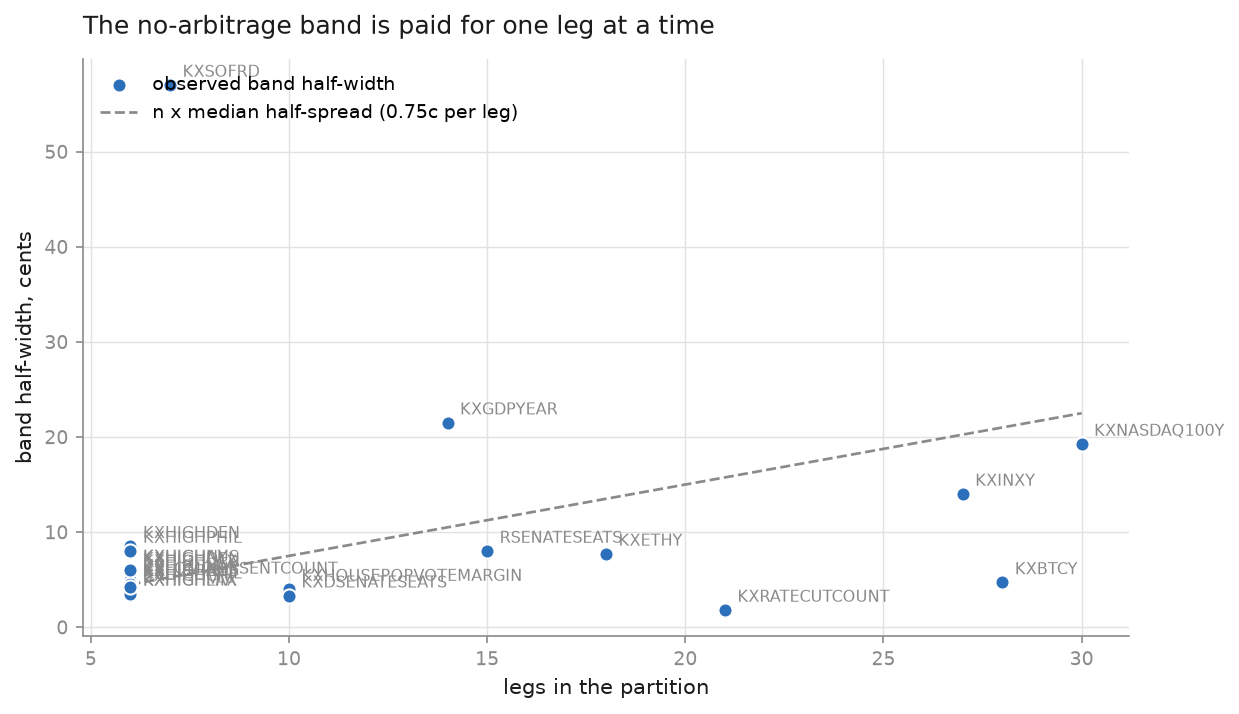
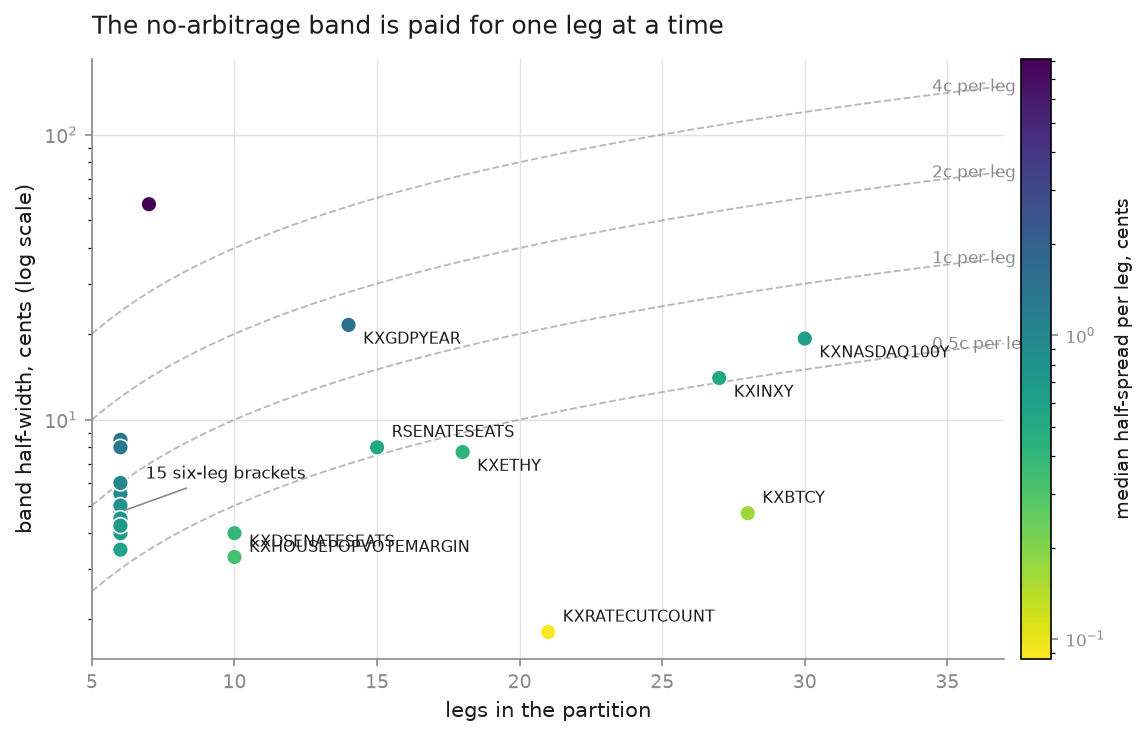
Separate leg count from quoting quality in the band figure
The first version plotted band half-width against leg count with a single
reference line, which made it look like a weak relationship. It is not weak,
it is confounded: per-leg half-spreads vary by an order of magnitude across the
venue, so the scatter is mostly quoting quality rather than leg count. Fixing
quality with a fan of guide lines and colouring each point by its actual
half-spread separates the two.

Also splits the time-series figure into a proven bracket next to an incomplete
one. The incomplete bracket sits persistently outside its own band, which is
the clearest possible statement of why exclusivity is not exhaustiveness.

diff --git a/src/brackets/report.py b/src/brackets/report.py
@@ -17,7 +17,7 @@ matplotlib.use("Agg")
 import matplotlib.pyplot as plt
 import numpy as np
 import pandas as pd
-from matplotlib.patches import FancyArrowPatch, Rectangle
+from matplotlib.patches import FancyArrowPatch, Patch, Rectangle
 
 from .fees import continuous_fee_cents_per_bracket, cost_curve, crossover_size, gini_simpson
 
@@ -182,47 +182,97 @@ def figure_structure_taxonomy(out: Path) -> Path:
 # -- data figures ----------------------------------------------------------
 
 def figure_band_vs_legs(profile: pd.DataFrame, out: Path) -> Path:
-    """Band half-width against leg count, with the constant-quality reference."""
-    fig, ax = plt.subplots(figsize=FIGSIZE)
-    ax.scatter(profile["n_legs"], profile["median_band"], s=46, color=YES,
-               edgecolor="white", zorder=3, label="observed band half-width")
+    """Band half-width against leg count, holding quoting quality fixed.
 
-    per_leg = float(profile["median_half_spread_per_leg"].median())
-    grid = np.linspace(profile["n_legs"].min(), profile["n_legs"].max(), 50)
-    ax.plot(grid, per_leg * grid, color=MUTED, linestyle="--", linewidth=1.3,
-            label=f"n x median half-spread ({per_leg:.2f}c per leg)")
+    Two things drive the band and they have to be separated. Leg count is the
+    mechanical one: the same per-leg half-spread bought n times is n times the
+    band. Quoting quality is the other, and it varies by an order of magnitude
+    across the venue. The guide lines fix quality so that the leg-count effect
+    is visible on its own, and the colour of each point says where that event
+    actually sits.
+    """
+    fig, ax = plt.subplots(figsize=(9.4, 5.2))
 
-    for row in profile.itertuples():
+    grid = np.linspace(profile["n_legs"].min() - 1, profile["n_legs"].max() + 7, 60)
+    for per_leg, label_at in ((0.5, 0.90), (1.0, 0.90), (2.0, 0.90), (4.0, 0.90)):
+        ax.plot(grid, per_leg * grid, color=MUTED, linestyle="--", linewidth=0.9,
+                alpha=0.6, zorder=1)
+        x = grid[int(len(grid) * label_at)]
+        ax.text(x, per_leg * x, f" {per_leg:g}c per leg", fontsize=8, color=MUTED,
+                rotation=0, va="bottom", ha="left")
+
+    points = ax.scatter(profile["n_legs"], profile["median_band"], s=58,
+                        c=profile["median_half_spread_per_leg"], cmap="viridis_r",
+                        norm=matplotlib.colors.LogNorm(), edgecolor="white",
+                        linewidth=0.8, zorder=3)
+    bar = fig.colorbar(points, ax=ax, pad=0.015)
+    bar.set_label("median half-spread per leg, cents", fontsize=9, color=INK)
+    bar.ax.tick_params(colors=MUTED, labelsize=8)
+
+    # Label the large brackets and the extremes; the six-leg weather events sit on
+    # top of each other and are called out as a group instead.
+    notable = profile[profile["n_legs"] >= 10].sort_values("n_legs")
+    for i, row in enumerate(notable.itertuples()):
         ax.annotate(row.event_ticker.split("-")[0], (row.n_legs, row.median_band),
-                    textcoords="offset points", xytext=(6, 4), fontsize=7.5, color=MUTED)
+                    textcoords="offset points", xytext=(7, 5 if i % 2 else -9),
+                    fontsize=7.5, color=INK)
+    six = profile[profile["n_legs"] == 6]
+    if len(six):
+        ax.annotate(f"{len(six)} six-leg brackets",
+                    (6, float(six["median_band"].median())),
+                    textcoords="offset points", xytext=(12, 16), fontsize=8, color=INK,
+                    arrowprops=dict(arrowstyle="-", color=MUTED, linewidth=0.8))
 
+    ax.set_yscale("log")
     _style(ax, "The no-arbitrage band is paid for one leg at a time",
-           "legs in the partition", "band half-width, cents")
-    ax.legend(frameon=False, fontsize=9, loc="upper left")
+           "legs in the partition", "band half-width, cents (log scale)")
+    ax.set_xlim(grid[0], grid[-1])
     return _save(fig, out, "band_vs_legs.png")
 
 
 def figure_mid_sum_band(screened: pd.DataFrame, out: Path,
                         event_ticker: str | None = None) -> Path:
     """One event's mid sum against its own band, minute by minute."""
-    if event_ticker is None:
-        counts = screened.groupby("event_ticker")["ts"].nunique()
-        event_ticker = counts.idxmax()
-    frame = screened[screened["event_ticker"] == event_ticker].sort_values("ts")
+    def pick(subset: pd.DataFrame) -> str | None:
+        if not len(subset):
+            return None
+        ranked = (subset.groupby("event_ticker")
+                  .agg(minutes=("ts", "nunique"), band=("band", "median")))
+        ranked = ranked[ranked["minutes"] >= ranked["minutes"].max() * 0.9]
+        return str(ranked["band"].idxmin())
 
-    fig, ax = plt.subplots(figsize=FIGSIZE)
-    ax.fill_between(frame["ts"], 100 - frame["band"], 100 + frame["band"],
-                    color=YES, alpha=0.14, label="no-arbitrage band")
-    ax.axhline(100, color=MUTED, linewidth=1.0, linestyle="--")
-    ax.plot(frame["ts"], frame["mid_sum"], color=INK, linewidth=1.4,
-            label="sum of leg mids")
-    ax.plot(frame["ts"], frame["ask_sum"], color=NO, linewidth=1.0, alpha=0.75,
-            label="sum of leg asks")
+    proven = event_ticker or pick(screened[screened["exhaustive"] == "proven"])
+    incomplete = pick(screened[screened["exhaustive"] == "open_tail"])
+    chosen = [(proven, "legs proven to cover every outcome"),
+              (incomplete, "legs that leave outcomes unlisted")]
+    chosen = [(t, s) for t, s in chosen if t]
 
-    _style(ax, f"{event_ticker}: what the bracket costs against what it pays",
-           "", "cents")
-    ax.legend(frameon=False, fontsize=9, loc="upper left", ncols=3)
-    fig.autofmt_xdate()
+    fig, axes = plt.subplots(1, len(chosen), figsize=(10.4, 4.6), squeeze=False)
+    for ax, (ticker, subtitle) in zip(axes[0], chosen):
+        frame = screened[screened["event_ticker"] == ticker].sort_values("ts")
+        ax.fill_between(frame["ts"], 100 - frame["band"], 100 + frame["band"],
+                        color=YES, alpha=0.14, label="no-arbitrage band")
+        ax.axhline(100, color=MUTED, linewidth=1.0, linestyle="--")
+        ax.plot(frame["ts"], frame["ask_sum"], color=NO, linewidth=1.2,
+                label="sum of asks (cost to buy)")
+        ax.plot(frame["ts"], frame["mid_sum"], color=INK, linewidth=1.4,
+                label="sum of mids")
+        ax.plot(frame["ts"], frame["bid_sum"], color=YES, linewidth=1.2,
+                label="sum of bids (return on selling)")
+
+        band = float(frame["band"].median())
+        legs = int(frame["n_legs"].iloc[0])
+        _style(ax, f"{ticker}\n{subtitle}", "", "cents" if ax is axes[0][0] else "")
+        ax.set_title(f"{ticker}\n{subtitle}", loc="left", fontsize=10.5, color=INK, pad=10)
+        ax.text(0.02, 0.02, f"{legs} legs, band half-width {band:.2f}c",
+                transform=ax.transAxes, fontsize=8.5, color=MUTED)
+        ax.margins(y=0.22)
+        ax.tick_params(axis="x", labelrotation=35, labelsize=8)
+
+    axes[0][0].legend(frameon=False, fontsize=8.5, loc="upper left", ncols=2)
+    fig.suptitle("The mid sum stays inside the band -- unless the bracket is incomplete",
+                 x=0.09, ha="left", fontsize=12, color=INK)
+    fig.tight_layout(rect=(0, 0, 1, 0.94))
     return _save(fig, out, "mid_sum_band.png")
 
 
@@ -242,10 +292,9 @@ def figure_flag_funnel(triaged: pd.DataFrame, out: Path) -> Path:
     total_tight = max(tight.sum(), 1)
 
     ax.barh(y + 0.19, overall / total_all, height=0.36,
-            color=[REASON_COLOURS[r] for r in order], alpha=0.85, label="all events")
+            color=[REASON_COLOURS[r] for r in order], alpha=0.85)
     ax.barh(y - 0.19, tight / total_tight, height=0.36,
-            color=[REASON_COLOURS[r] for r in order], alpha=0.42,
-            label="competitively quoted events only")
+            color=[REASON_COLOURS[r] for r in order], alpha=0.42)
 
     for i, reason in enumerate(order):
         ax.text(overall[reason] / total_all + 0.008, i + 0.19,
@@ -259,7 +308,13 @@ def figure_flag_funnel(triaged: pd.DataFrame, out: Path) -> Path:
     _style(ax, f"What {len(triaged):,} raw flags actually were",
            "share of raw flags", "")
     ax.xaxis.set_major_formatter(lambda v, _: f"{v:.0%}")
-    ax.legend(frameon=False, fontsize=9, loc="lower right")
+    # Each pair of bars is a share of its own denominator, so the legend has to
+    # carry the two counts or the comparison reads as a level rather than a mix.
+    handles = [Patch(facecolor=MUTED, alpha=0.85,
+                     label=f"all events (n = {int(overall.sum()):,})"),
+               Patch(facecolor=MUTED, alpha=0.42,
+                     label=f"competitively quoted only (n = {int(tight.sum()):,})")]
+    ax.legend(handles=handles, frameon=False, fontsize=9, loc="lower right")
     return _save(fig, out, "flag_funnel.png")
 
 
